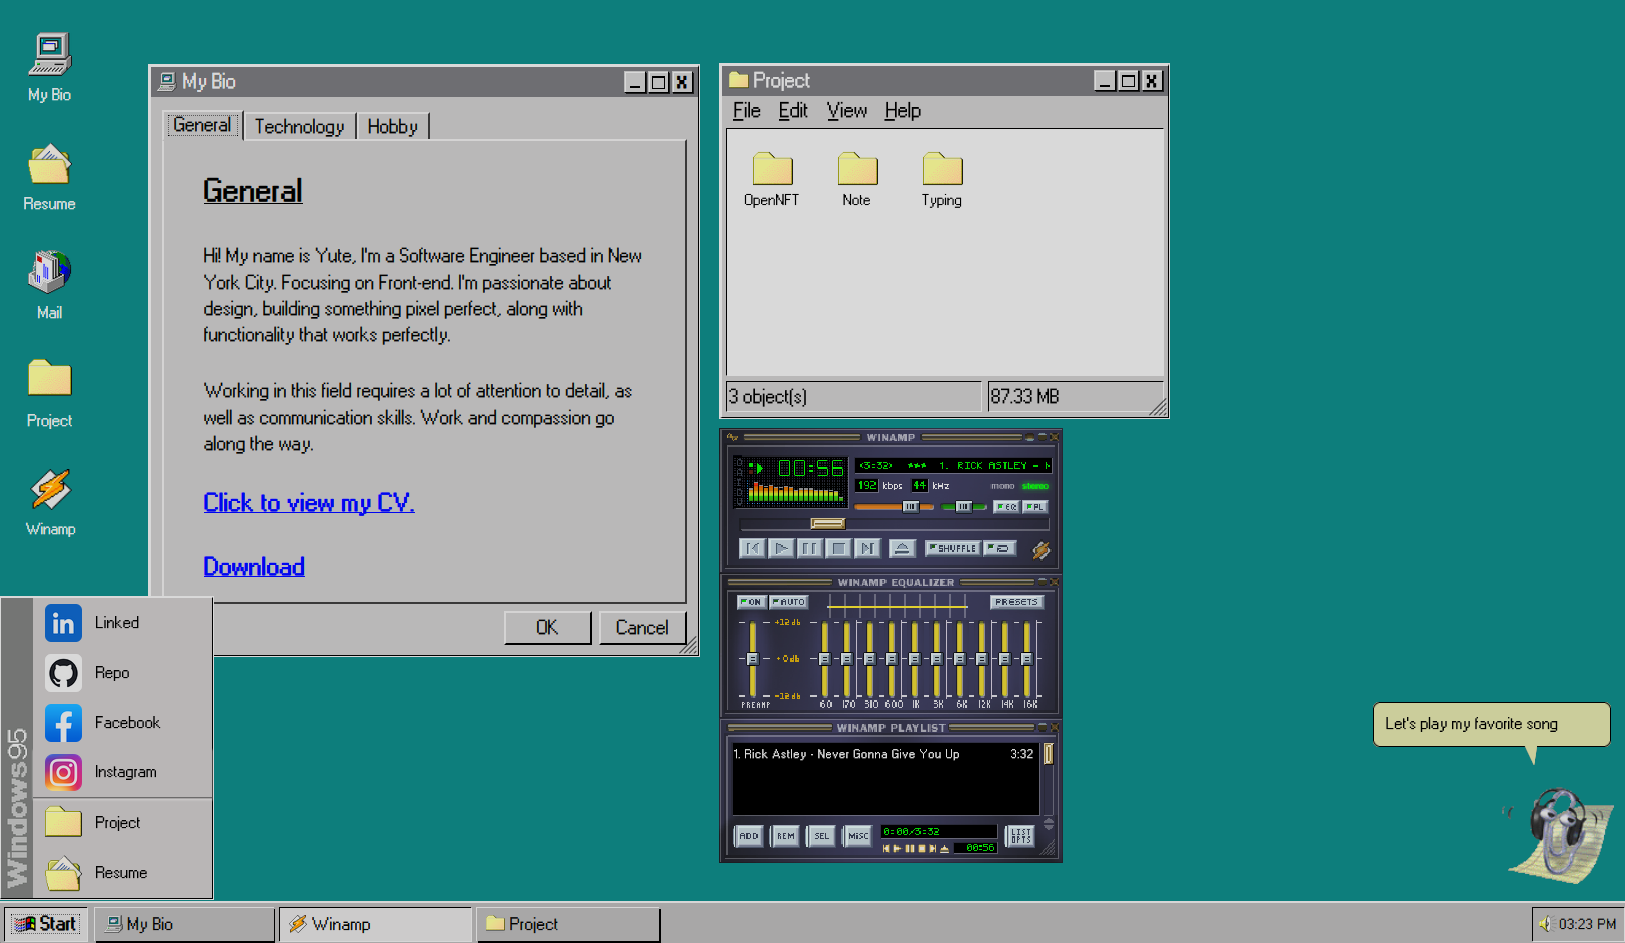
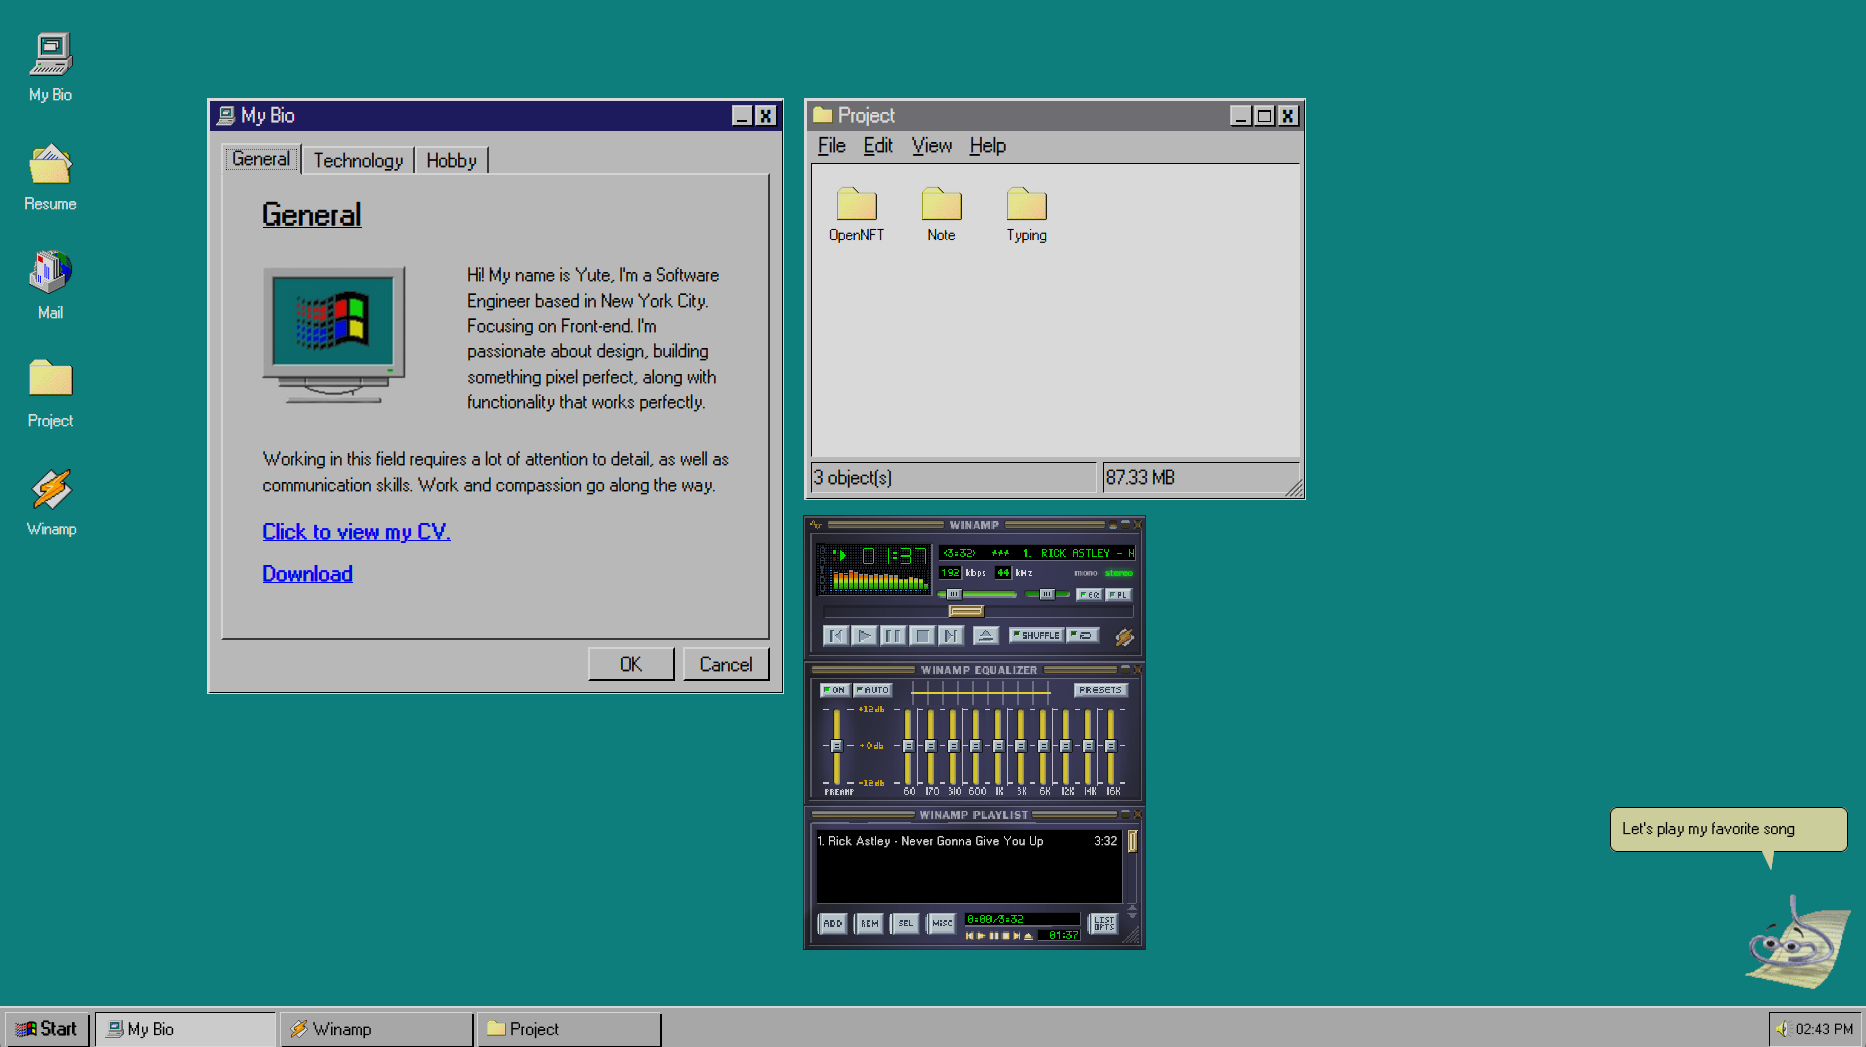
change screen shot on read me

Changed region(s): [[0.0, 0.0615, 1.0, 1.0], [0.0, 0.0308, 0.0615, 0.3075], [0.0, 0.3383, 0.0615, 0.5843]]

diff --git a/src/css/MyBioFolder.css b/src/css/MyBioFolder.css
@@ -171,7 +171,7 @@
     width: calc(100% - 10px);
     height: calc(100% - 95px);
     grid-template-columns: .8fr 1.2fr;
-    grid-template-rows: .4fr 1.5fr .4fr 1fr;
+    grid-template-rows: .4fr 1.5fr .6fr 1fr;
     padding: 1rem 1.5rem;
     border: 2px solid rgb(53, 52, 52);
     border-top-color: #f0efef;
